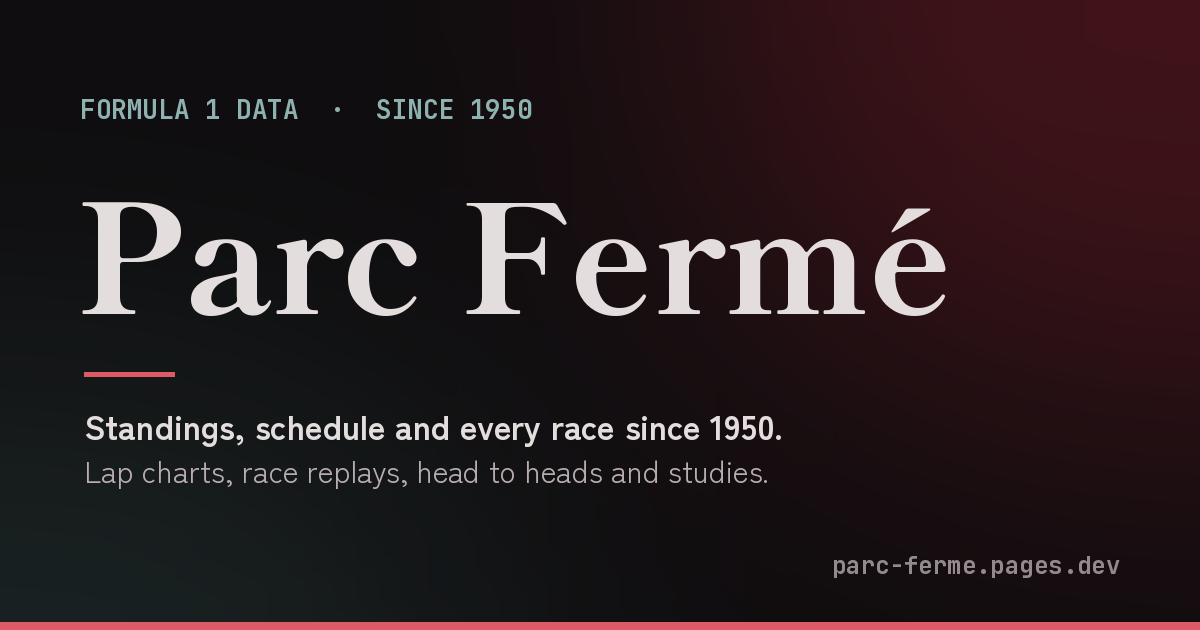
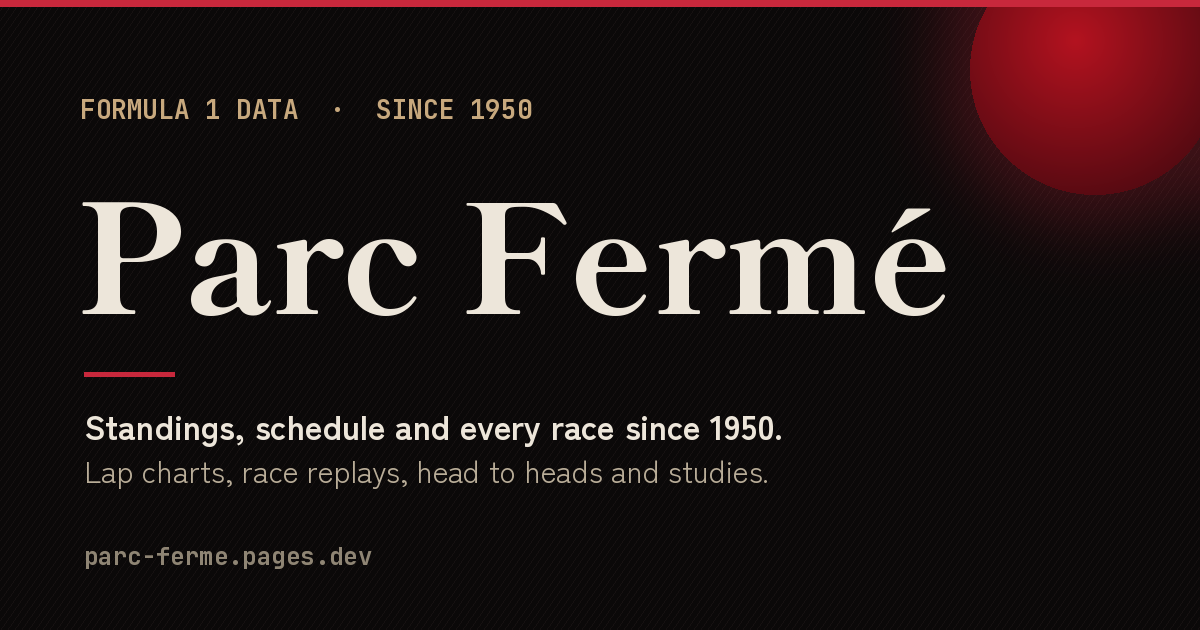
Profile colours and blood moon (#42)

diff --git a/site/assets/style.css b/site/assets/style.css
@@ -1,58 +1,51 @@
 :root {
-  /* Port Mafia: the default */
-  --ink: #0F0D0F;
-  --panel: #161315;
-  --panel-2: #1F1A1D;
-  --line: #272226;
-  --line-2: #352E33;
-  --text: #E4DDDE;
-  --soft: #B8ADB0;
-  --dim: #948A8E;
+  /* Port Mafia, from the profile banner: ink black, blood red, bone */
+  --ink: #0B0909;
+  --panel: #141010;
+  --panel-2: #1C1716;
+  --line: #241D1C;
+  --line-2: #342B29;
+  --text: #EDE6DA;
+  --soft: #B9AD98;
+  --dim: #8F8574;
   --radius: 6px;
-  --pink: #DC5B66;
-  --cyan: #8EB2B0;
-  --amber: #DCAF66;
-  --on-accent: #0F0D0F;
-  --top-bg: rgba(15,13,15,.86);
+  --pink: #E8475B;
+  --blood: #C8283C;
+  --cyan: #C8A97E;
+  --amber: #E0B35A;
+  --on-accent: #0B0909;
+  --hatch: #171111;
+  --moon-1: #B3121F;
+  --moon-2: #4E0910;
+  --moon-glow: rgba(200,40,60,.32);
+  --top-bg: rgba(11,9,9,.86);
   --display: 'Shippori Mincho B1', 'Shippori Mincho', serif;
   --body: 'Zen Kaku Gothic New', sans-serif;
   --mono: 'JetBrains Mono', monospace;
   color-scheme: dark;
 }
-/* Detective Agency: warm, still dark */
+/* Detective Agency, the light one: parchment, sepia ink, the same red */
 :root[data-theme="agency"] {
-  --ink: #14110E;
-  --panel: #1E1915;
-  --panel-2: #27201A;
-  --line: #332A22;
-  --line-2: #42372D;
-  --text: #EDE3CF;
-  --soft: #C9B99F;
-  --dim: #A8987F;
-  --pink: #C9A273;
-  --cyan: #8FB5B1;
-  --amber: #ECBF6A;
-  --on-accent: #14110E;
-  --top-bg: rgba(20,17,14,.86);
-}
-/* Paper: the light one */
-:root[data-theme="paper"] {
-  --ink: #F4ECDC;
-  --panel: #FBF6EC;
-  --panel-2: #ECE2CF;
-  --line: #E3D7C0;
-  --line-2: #D3C4A8;
-  --text: #2B2620;
-  --soft: #554C41;
-  --dim: #6A6053;
-  --pink: #8A1D24;
-  --cyan: #2D5F69;
-  --amber: #7A5306;
-  --on-accent: #FBF6EC;
-  --top-bg: rgba(244,236,220,.9);
+  --ink: #FBF7EF;
+  --panel: #FFFDF8;
+  --panel-2: #F1E9DA;
+  --line: #E6DCC8;
+  --line-2: #D8C8AC;
+  --text: #2A211B;
+  --soft: #4F4338;
+  --dim: #6B5A48;
+  --pink: #A51C2A;
+  --blood: #A51C2A;
+  --cyan: #7A5A2E;
+  --amber: #8B5E12;
+  --on-accent: #FBF7EF;
+  --hatch: #F3EBDD;
+  --moon-1: #B3121F;
+  --moon-2: #6E0E17;
+  --moon-glow: rgba(165,28,42,.16);
+  --top-bg: rgba(251,247,239,.9);
   color-scheme: light;
 }
-
 * { box-sizing: border-box; }
 html { scroll-behavior: smooth; }
 body {
@@ -1142,17 +1135,16 @@ code { font: 13px var(--mono); }
 /* themes */
 .top { background: var(--top-bg); }
 /* the replay map stays a night screen in either theme */
-.replay-map, .replay-flag { --ink: #0F0D0F; --text: #E4DDDE; --soft: #B8ADB0; --dim: #948A8E; --line-2: #352E33; --panel: #161315; --panel-2: #1F1A1D; --pink: #DC5B66; --cyan: #8EB2B0; }
-:root[data-theme="paper"] .wr-hero { background: linear-gradient(135deg, color-mix(in srgb, var(--pink) 10%, transparent), color-mix(in srgb, var(--cyan) 6%, transparent)), var(--panel); }
-:root[data-theme="paper"] .btn-solid, :root[data-theme="paper"] .btn-play { color: #fff; }
-:root[data-theme="paper"] .dhero-num { -webkit-text-stroke-color: var(--pink); }
+.replay-map, .replay-flag { --ink: #0B0909; --text: #EDE6DA; --soft: #B9AD98; --dim: #8F8574; --line-2: #342B29; --panel: #141010; --panel-2: #1C1716; --pink: #E8475B; --cyan: #C8A97E; }
+:root[data-theme="agency"] .wr-hero { background: linear-gradient(135deg, color-mix(in srgb, var(--pink) 10%, transparent), color-mix(in srgb, var(--cyan) 6%, transparent)), var(--panel); }
+:root[data-theme="agency"] .btn-solid, :root[data-theme="agency"] .btn-play { color: #fff; }
+:root[data-theme="agency"] .dhero-num { -webkit-text-stroke-color: var(--pink); }
 .theme-btn { width: 36px; height: 36px; display: inline-grid; place-items: center; padding: 0; margin-right: -16px; color: var(--soft); background: var(--panel); border: 1px solid var(--line-2); border-radius: var(--radius); cursor: pointer; }
 .theme-btn + .search-open { margin-left: 0; height: 36px; }
 .theme-btn:hover { color: var(--text); border-color: var(--dim); }
-/* the icon shows the current look: a crescent for Mafia, half a coin for the Agency, an open ring for Paper */
+/* the icon shows the current look: a crescent for the Mafia, an open ring for the Agency */
 .theme-btn::before { content: ""; width: 16px; height: 16px; border-radius: 50%; background: currentColor; -webkit-mask: radial-gradient(circle at 70% 30%, transparent 6px, #000 6.5px); mask: radial-gradient(circle at 70% 30%, transparent 6px, #000 6.5px); }
-.theme-btn[data-look="agency"]::before { -webkit-mask: none; mask: none; background: linear-gradient(90deg, currentColor 50%, transparent 50%); box-shadow: inset 0 0 0 1.5px currentColor; width: 14px; height: 14px; }
-.theme-btn[data-look="paper"]::before { -webkit-mask: none; mask: none; background: transparent; box-shadow: inset 0 0 0 2px currentColor; width: 14px; height: 14px; }
+.theme-btn[data-look="agency"]::before { -webkit-mask: none; mask: none; background: transparent; box-shadow: inset 0 0 0 2px currentColor; width: 14px; height: 14px; }
 .theme-btn:focus-visible, .search-open:focus-visible, .seg-btn:focus-visible, .chip:focus-visible, button:focus-visible, select:focus-visible, input:focus-visible { outline: 2px solid var(--cyan); outline-offset: 2px; }
 @media (max-width: 640px) {
   .theme-btn { position: absolute; right: 64px; top: 12px; width: 40px; height: 36px; margin-right: 0; }
@@ -1160,13 +1152,13 @@ code { font: 13px var(--mono); }
 }
 
 /* text sitting on a coloured fill stays white in the light theme */
-:root[data-theme="paper"] .sq-win, :root[data-theme="paper"] .sq-pod, :root[data-theme="paper"] .pill-live, :root[data-theme="paper"] .pill-next, :root[data-theme="paper"] .flag-next, :root[data-theme="paper"] .flag-live, :root[data-theme="paper"] .tp-lead, :root[data-theme="paper"] .tp-champ, :root[data-theme="paper"] .tp-alive, :root[data-theme="paper"] .stint, :root[data-theme="paper"] .stint-key, :root[data-theme="paper"] .btn-play, :root[data-theme="paper"] .toast, :root[data-theme="paper"] .out-dns, :root[data-theme="paper"] .out-dsq, :root[data-theme="paper"] .lap-tag, :root[data-theme="paper"] .follow-btn.on { color: #fff; }
-:root[data-theme="paper"] .stint-key { color: #07070D; }
-:root[data-theme="paper"] .fl-tag { color: #6A2FD0; border-color: rgba(106,47,208,.45); }
+:root[data-theme="agency"] .sq-win, :root[data-theme="agency"] .sq-pod, :root[data-theme="agency"] .pill-live, :root[data-theme="agency"] .pill-next, :root[data-theme="agency"] .flag-next, :root[data-theme="agency"] .flag-live, :root[data-theme="agency"] .tp-lead, :root[data-theme="agency"] .tp-champ, :root[data-theme="agency"] .tp-alive, :root[data-theme="agency"] .stint, :root[data-theme="agency"] .stint-key, :root[data-theme="agency"] .btn-play, :root[data-theme="agency"] .toast, :root[data-theme="agency"] .out-dns, :root[data-theme="agency"] .out-dsq, :root[data-theme="agency"] .lap-tag, :root[data-theme="agency"] .follow-btn.on { color: #fff; }
+:root[data-theme="agency"] .stint-key { color: #07070D; }
+:root[data-theme="agency"] .fl-tag { color: #6A2FD0; border-color: rgba(106,47,208,.45); }
 .btn-solid { color: var(--on-accent); }
-:root[data-theme="paper"] .btn-solid { color: #fff; }
+:root[data-theme="agency"] .btn-solid { color: #fff; }
 .ns-flag.flag-next, .ns-flag.flag-live { color: var(--on-accent); }
-:root[data-theme="paper"] .ns-flag.flag-next, :root[data-theme="paper"] .ns-flag.flag-live { color: #fff; }
+:root[data-theme="agency"] .ns-flag.flag-next, :root[data-theme="agency"] .ns-flag.flag-live { color: #fff; }
 .skip { position: absolute; left: 16px; top: -60px; z-index: 50; padding: 10px 16px; background: var(--pink); color: var(--on-accent); font-weight: 700; border-radius: var(--radius); }
 .skip:focus { top: 12px; }
 main:focus { outline: none; }
@@ -1179,4 +1171,66 @@ main:focus { outline: none; }
 .brand-name, .dcard-name, .dcard-num, .dhero-num, .dname-last, .duel-v, .pairs-v, .rc-name, .s-jump-title, .tally-n, .tile-value, .tp-pct, .vs-ghost, .vs-name, .vs-x, .weekend-name, .wr-big, .wr-champ { font-weight: 800; }
 /* retirements keep a true red of their own, apart from the theme accent */
 .tw-pos.tw-why { color: #FF6B6B; }
-:root[data-theme="paper"] .tw-pos.tw-why { color: #B3261E; }
+:root[data-theme="agency"] .tw-pos.tw-why { color: #B3261E; }
+
+/* ---- the profile look: paper grain, a blood moon, red rules and a seal ---- */
+body {
+  background-color: var(--ink);
+  background-image: repeating-linear-gradient(125deg, transparent 0 5px, var(--hatch) 5px 6px);
+}
+main { position: relative; isolation: isolate; }
+/* the moon sits behind the top of every page, half off the right edge */
+main::before {
+  content: ""; position: absolute; z-index: -1; pointer-events: none;
+  top: -70px; right: max(-140px, calc(50% - 780px));
+  width: 420px; height: 420px; border-radius: 50%;
+  background: radial-gradient(circle at 42% 38%, var(--moon-1), var(--moon-2) 72%);
+  box-shadow: 0 0 0 40px color-mix(in srgb, var(--moon-glow) 40%, transparent), 0 0 160px 70px var(--moon-glow);
+  opacity: .9;
+  animation: moon-breathe 7s ease-in-out infinite;
+}
+:root[data-theme="agency"] main::before { opacity: .78; }
+@keyframes moon-breathe { 50% { box-shadow: 0 0 0 56px color-mix(in srgb, var(--moon-glow) 30%, transparent), 0 0 190px 80px var(--moon-glow); } }
+/* the countdown card and other panels sit cleanly on top of it */
+.panel, .tile, .dcard, .table-box, .countdown, .ns-card { position: relative; }
+
+/* headings get the fading red rule from the profile */
+.page-head .page-title, .next-name { position: relative; padding-bottom: 14px; }
+.page-head .page-title::after, .next-name::after {
+  content: ""; position: absolute; left: 0; bottom: 0; height: 2px; width: min(420px, 70%);
+  background: linear-gradient(90deg, var(--blood), transparent);
+}
+.block-head h2 { position: relative; padding-left: 16px; }
+.block-head h2::before { content: ""; position: absolute; left: 0; top: .28em; bottom: .22em; width: 4px; background: var(--blood); border-radius: 1px; }
+
+/* cards carry the red edge like the profile's project cards */
+.dcard, .ct-card, .wr-card, .race-card, .battle, .tv-card { box-shadow: inset 4px 0 0 var(--blood); }
+.dcard:hover, .ct-card:hover, .race-card:hover { box-shadow: inset 4px 0 0 var(--pink), 0 10px 30px -18px var(--moon-glow); }
+
+/* the katakana under the name becomes a red seal */
+.brand-jp {
+  display: inline-block; padding: 2px 7px 3px; border-radius: 3px;
+  background: var(--blood); color: #F4EDE2; font-weight: 700; letter-spacing: .08em;
+  transform: rotate(-4deg); box-shadow: 0 2px 0 rgba(0,0,0,.25);
+}
+
+/* bone white numbers, red for the leader */
+.tile-value { color: var(--text); }
+.wr-hero { background: radial-gradient(circle at 88% 30%, color-mix(in srgb, var(--blood) 30%, transparent), transparent 55%), var(--panel); box-shadow: inset 4px 0 0 var(--blood); }
+
+@media (max-width: 640px) {
+  main::before { width: 220px; height: 220px; top: -30px; right: -90px; opacity: .55; }
+  .brand-jp { display: none; }
+}
+@media (prefers-reduced-motion: reduce) { main::before { animation: none; } }
+.brand-jp { font-size: 10px; letter-spacing: .04em; padding: 2px 6px; }
+.brand { gap: 10px; }
+nav a { padding: 8px 10px; }
+:root[data-theme="agency"] main::before { opacity: .42; }
+@media (max-width: 1180px) and (min-width: 641px) { .brand { flex-basis: 100%; } }
+/* tablets: search shrinks to its icon so the row stays on one line */
+@media (max-width: 1000px) and (min-width: 641px) {
+  .search-word, .search-open::after { display: none; }
+  .theme-btn + .search-open { width: 40px; padding: 0; justify-content: center; }
+  nav a { padding: 8px 8px; }
+}

diff --git a/site/assets/theme.js b/site/assets/theme.js
@@ -1,14 +1,13 @@
-// three looks: Port Mafia (default), Detective Agency and Paper, set before the page paints
+// two looks, Port Mafia (default) and Detective Agency, set before the page paints
 (function () {
   const KEY = 'pf-theme';
   const THEMES = [
-    { id: 'mafia', name: 'Port Mafia', color: '#0F0D0F' },
-    { id: 'agency', name: 'Detective Agency', color: '#14110E' },
-    { id: 'paper', name: 'Paper', color: '#F4ECDC' },
+    { id: 'mafia', name: 'Port Mafia', color: '#0B0909' },
+    { id: 'agency', name: 'Detective Agency', color: '#FBF7EF' },
   ];
   let saved = null;
   try { saved = localStorage.getItem(KEY); } catch (e) { /* storage blocked */ }
-  if (saved === 'light') saved = 'paper';   // the old light theme
+  if (saved === 'light' || saved === 'paper') saved = 'agency';   // older light looks
   const apply = id => {
     if (id && id !== 'mafia') document.documentElement.dataset.theme = id;
     else delete document.documentElement.dataset.theme;

diff --git a/site/index.html b/site/index.html
@@ -5,7 +5,7 @@
 <meta name="viewport" content="width=device-width, initial-scale=1">
 <title>Parc Fermé · F1 standings, schedule, results and stats</title>
 <meta name="description" content="F1 driver and team standings updated after every session, the 2026 schedule in your time zone, every race since 1950 with lap charts and tyre strategies, and driver comparisons.">
-<meta name="theme-color" content="#0F0D0F">
+<meta name="theme-color" content="#0B0909">
 <meta name="google-site-verification" content="b3CixJ69BHothNT8axRSjgM3dIisIwsQ42CTTslmmmc">
 <link rel="icon" href="/assets/icon.svg" type="image/svg+xml">
 <link rel="preconnect" href="https://fonts.googleapis.com">

diff --git a/site/standings.html b/site/standings.html
@@ -5,7 +5,7 @@
 <meta name="viewport" content="width=device-width, initial-scale=1">
 <title>F1 standings for every season since 1950, round by round · Parc Fermé</title>
 <meta name="description" content="Formula 1 driver and constructor standings for every season since 1950, after any round, with a points chart and who led wins, podiums and poles.">
-<meta name="theme-color" content="#0F0D0F">
+<meta name="theme-color" content="#0B0909">
 <link rel="icon" href="/assets/icon.svg" type="image/svg+xml">
 <link rel="preconnect" href="https://fonts.googleapis.com">
 <link rel="preconnect" href="https://fonts.gstatic.com" crossorigin>

diff --git a/site/races.html b/site/races.html
@@ -5,7 +5,7 @@
 <meta name="viewport" content="width=device-width, initial-scale=1">
 <title>Every F1 race since 1950: results, lap charts and tyres · Parc Fermé</title>
 <meta name="description" content="Results for every Formula 1 Grand Prix since 1950, lap-by-lap charts from 1996, and tyre strategies, safety cars and practice times from 2023.">
-<meta name="theme-color" content="#0F0D0F">
+<meta name="theme-color" content="#0B0909">
 <link rel="icon" href="/assets/icon.svg" type="image/svg+xml">
 <link rel="preconnect" href="https://fonts.googleapis.com">
 <link rel="preconnect" href="https://fonts.gstatic.com" crossorigin>

diff --git a/site/studies.html b/site/studies.html
@@ -5,7 +5,7 @@
 <meta name="viewport" content="width=device-width, initial-scale=1">
 <title>F1 studies: car or driver, and the death of the DNF · Parc Fermé</title>
 <meta name="description" content="Long reads from 75 years of Formula 1 results: how much the car decides compared with the driver, and how retirements almost vanished from racing.">
-<meta name="theme-color" content="#0F0D0F">
+<meta name="theme-color" content="#0B0909">
 <link rel="icon" href="/assets/icon.svg" type="image/svg+xml">
 <link rel="preconnect" href="https://fonts.googleapis.com">
 <link rel="preconnect" href="https://fonts.gstatic.com" crossorigin>

diff --git a/site/wrapped.html b/site/wrapped.html
@@ -5,7 +5,7 @@
 <meta name="viewport" content="width=device-width, initial-scale=1">
 <title>F1 season wrapped: every season in a dozen numbers · Parc Fermé</title>
 <meta name="description" content="Any Formula 1 season told in a dozen numbers: the champion, when it was settled, lead changes, the closest finish, the biggest climb and more.">
-<meta name="theme-color" content="#0F0D0F">
+<meta name="theme-color" content="#0B0909">
 <link rel="icon" href="/assets/icon.svg" type="image/svg+xml">
 <link rel="preconnect" href="https://fonts.googleapis.com">
 <link rel="preconnect" href="https://fonts.gstatic.com" crossorigin>

diff --git a/site/drivers.html b/site/drivers.html
@@ -5,7 +5,7 @@
 <meta name="viewport" content="width=device-width, initial-scale=1">
 <title>F1 drivers 2026: career stats and teammate battles · Parc Fermé</title>
 <meta name="description" content="Every driver on the 2026 Formula 1 grid with career wins, podiums and poles, season-by-season finishes and the battle with their teammate.">
-<meta name="theme-color" content="#0F0D0F">
+<meta name="theme-color" content="#0B0909">
 <link rel="icon" href="/assets/icon.svg" type="image/svg+xml">
 <link rel="preconnect" href="https://fonts.googleapis.com">
 <link rel="preconnect" href="https://fonts.gstatic.com" crossorigin>

diff --git a/site/questions.html b/site/questions.html
@@ -5,7 +5,7 @@
 <meta name="viewport" content="width=device-width, initial-scale=1">
 <title>F1 questions answered with data · Parc Fermé</title>
 <meta name="description" content="Is Antonelli about to be the youngest F1 champion? Did Hamilton&#x27;s Ferrari move work? Do safety cars decide races? The answers, with the numbers.">
-<meta name="theme-color" content="#0F0D0F">
+<meta name="theme-color" content="#0B0909">
 <link rel="icon" href="/assets/icon.svg" type="image/svg+xml">
 <link rel="preconnect" href="https://fonts.googleapis.com">
 <link rel="preconnect" href="https://fonts.gstatic.com" crossorigin>

diff --git a/site/circuits.html b/site/circuits.html
@@ -5,7 +5,7 @@
 <meta name="viewport" content="width=device-width, initial-scale=1">
 <title>Every F1 circuit since 1950: winners and records · Parc Fermé</title>
 <meta name="description" content="Every circuit to host a Formula 1 world championship race, with its track map, most successful drivers and teams, and every winner.">
-<meta name="theme-color" content="#0F0D0F">
+<meta name="theme-color" content="#0B0909">
 <link rel="icon" href="/assets/icon.svg" type="image/svg+xml">
 <link rel="preconnect" href="https://fonts.googleapis.com">
 <link rel="preconnect" href="https://fonts.gstatic.com" crossorigin>

diff --git a/site/schedule.html b/site/schedule.html
@@ -5,7 +5,7 @@
 <meta name="viewport" content="width=device-width, initial-scale=1">
 <title>F1 schedule 2026 in your time zone · Parc Fermé</title>
 <meta name="description" content="Every session of every Formula 1 weekend this season, shown in your own time zone, with practice, qualifying and race results as they land.">
-<meta name="theme-color" content="#0F0D0F">
+<meta name="theme-color" content="#0B0909">
 <link rel="icon" href="/assets/icon.svg" type="image/svg+xml">
 <link rel="preconnect" href="https://fonts.googleapis.com">
 <link rel="preconnect" href="https://fonts.gstatic.com" crossorigin>

diff --git a/site/trivia.html b/site/trivia.html
@@ -5,7 +5,7 @@
 <meta name="viewport" content="width=device-width, initial-scale=1">
 <title>F1 trivia: facts, quiz questions and on this day · Parc Fermé</title>
 <meta name="description" content="Formula 1 facts, quiz questions and on-this-day moments worked out from every race since 1950, updated after each Grand Prix.">
-<meta name="theme-color" content="#0F0D0F">
+<meta name="theme-color" content="#0B0909">
 <link rel="icon" href="/assets/icon.svg" type="image/svg+xml">
 <link rel="preconnect" href="https://fonts.googleapis.com">
 <link rel="preconnect" href="https://fonts.gstatic.com" crossorigin>
